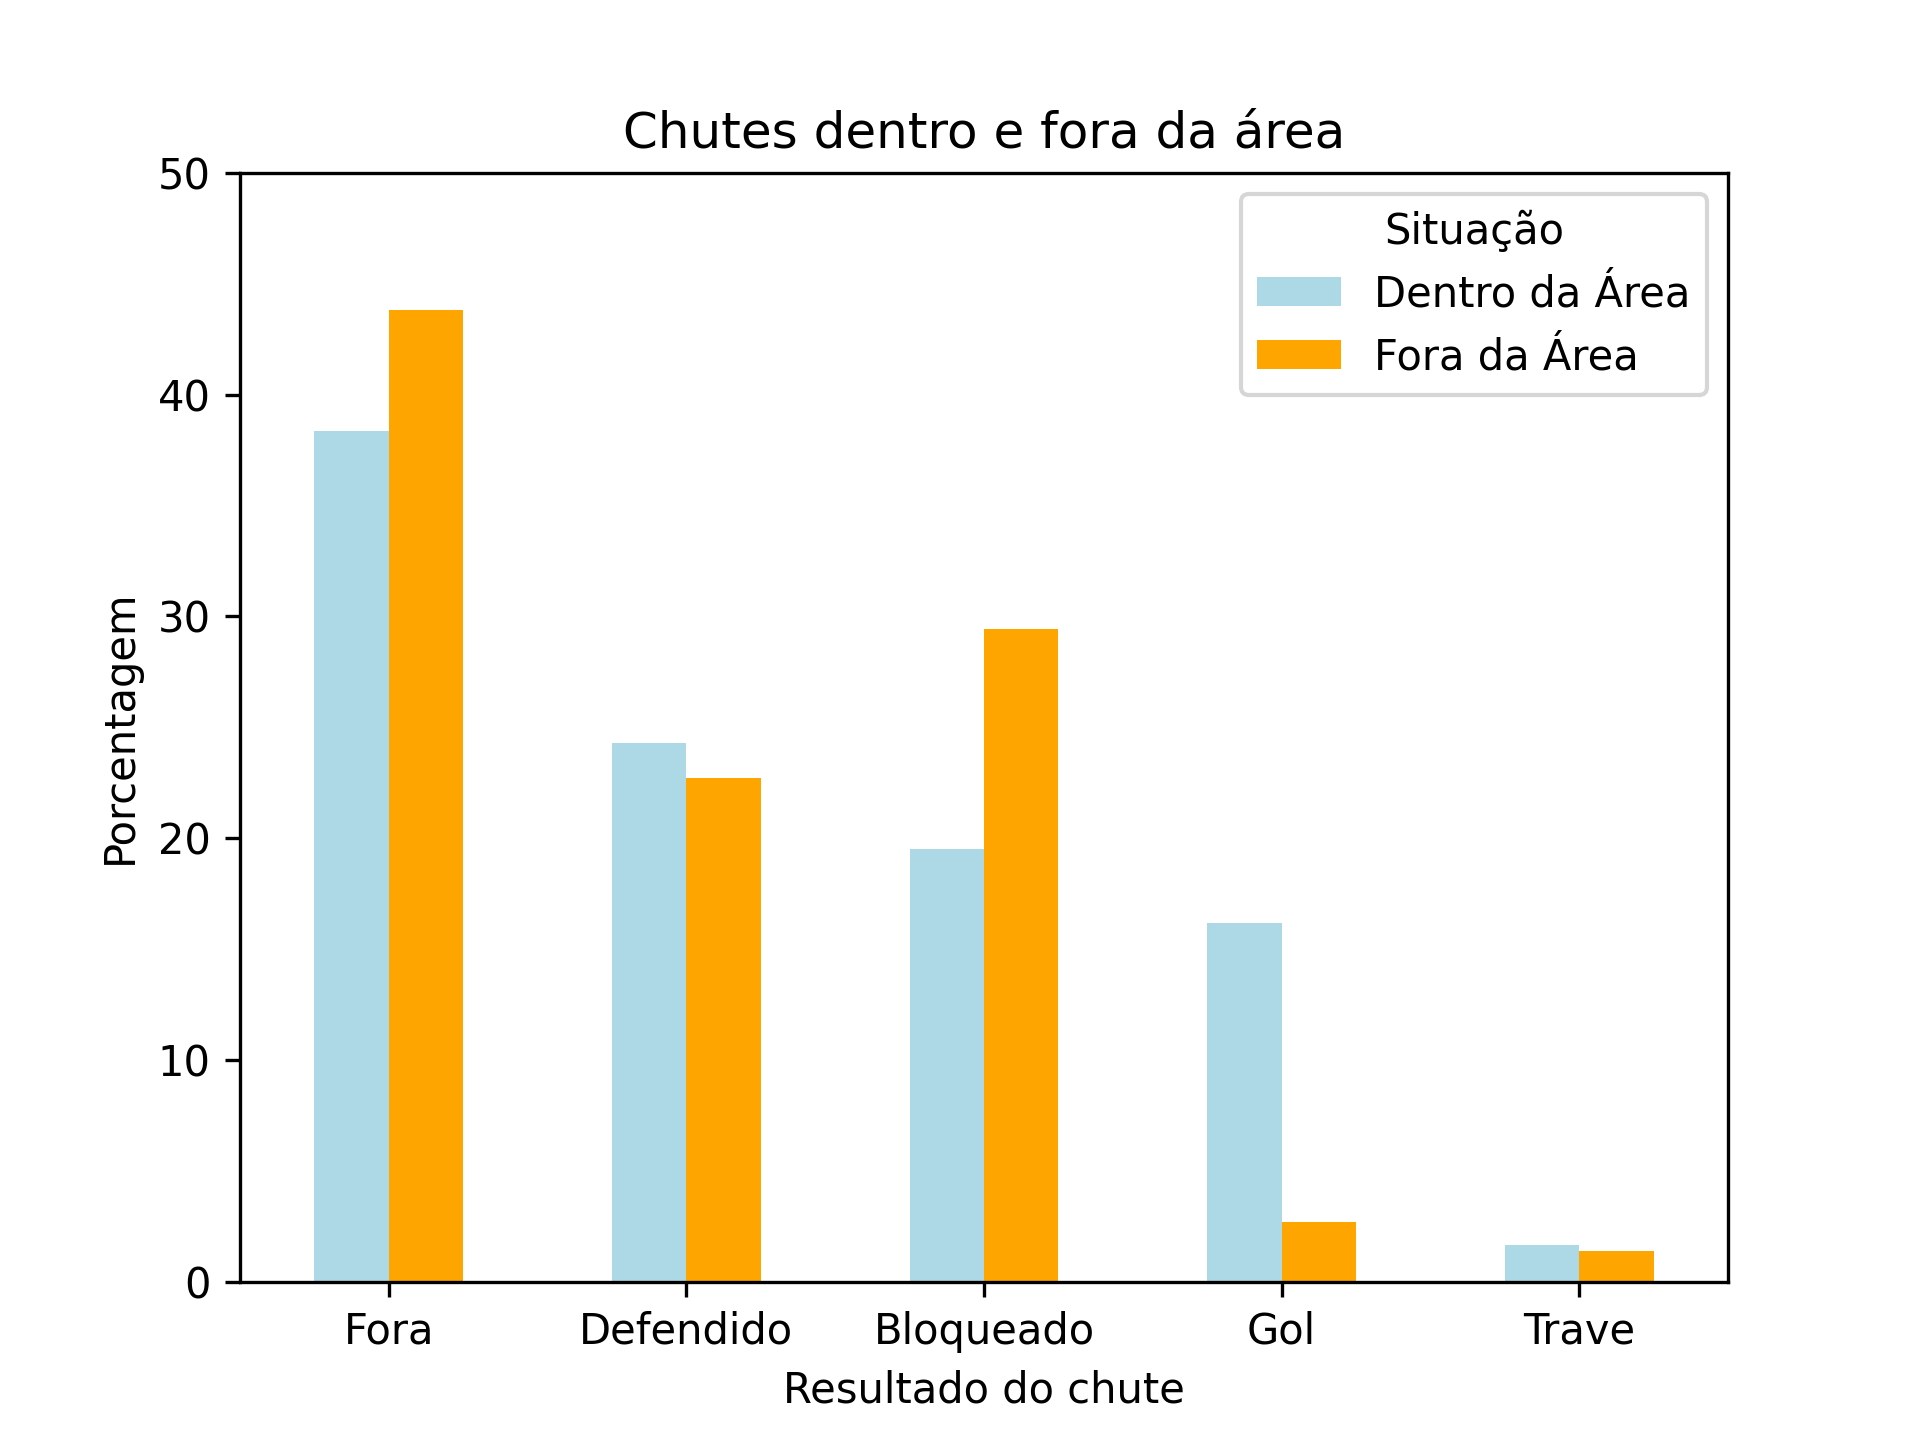
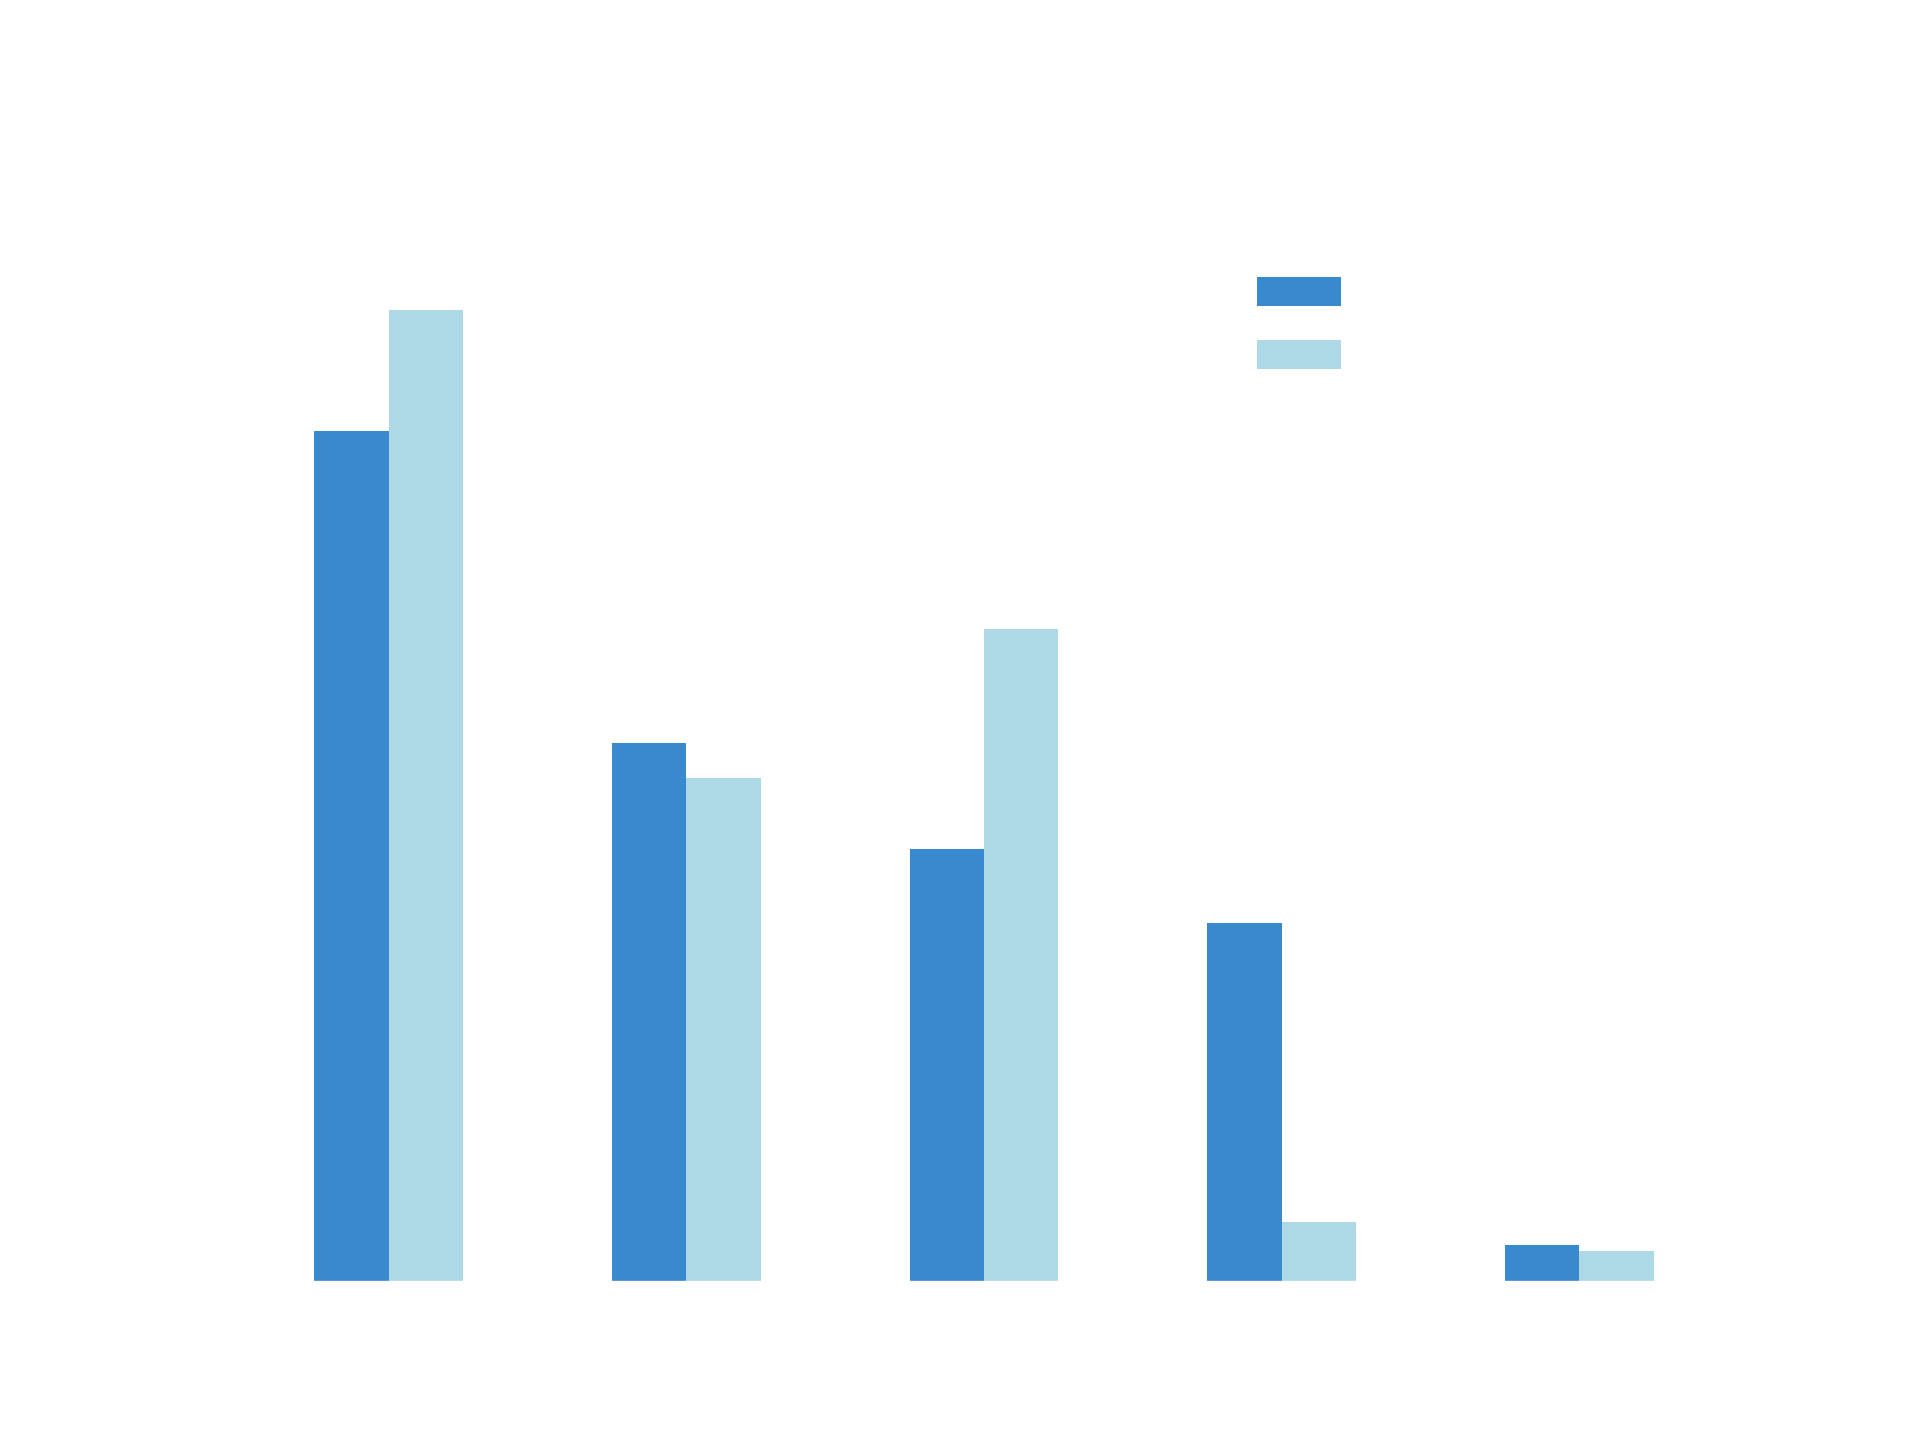
adjust graph

diff --git a/src/shots.py b/src/shots.py
@@ -170,14 +170,30 @@ def graph_view_shot_outcome(df: pd.DataFrame) -> None:
             raise KeyError(f"A coluna '{col}' não existe no DataFrame.")
     
     # main code
-    df.set_index('Resultado').plot.bar(title='Chutes dentro e fora da área', color=['lightblue', 'orange'])
+    ax = df.set_index('Resultado').plot.bar(
+        title='Chutes dentro e fora da área', 
+        color=['#3889ce', 'lightblue']
+    )
 
-    plt.xlabel('Resultado do chute')
-    plt.ylabel('Porcentagem')
-    plt.legend(title='Situação', labels=['Dentro da Área', 'Fora da Área'])
+    ax.set_xlabel('Resultado do chute', color='white')
+    ax.set_ylabel('Porcentagem', color='white')
+    legend = ax.legend(title='Situação', labels=['Dentro da Área', 'Fora da Área'], facecolor='none', edgecolor='white')
+    
+    plt.setp(legend.get_texts(), color='white')
+    plt.setp(legend.get_title(), color='white')
+
+    ax.tick_params(axis='x', colors='white')
+    ax.tick_params(axis='y', colors='white')
+
+    ax.spines['top'].set_color('white')
+    ax.spines['bottom'].set_color('white')
+    ax.spines['left'].set_color('white')
+    ax.spines['right'].set_color('white')
+    
     plt.xticks(rotation=0)
     plt.ylim(0, 50) 
-    plt.savefig('../data/graph_shots.png',format='png', dpi=300)
+    plt.title('Chutes dentro e fora da área', color='white')
+    plt.savefig('../data/graph_shots.png', format='png', dpi=300, transparent=True)
 
 
 def shots_main(df: pd.DataFrame):
